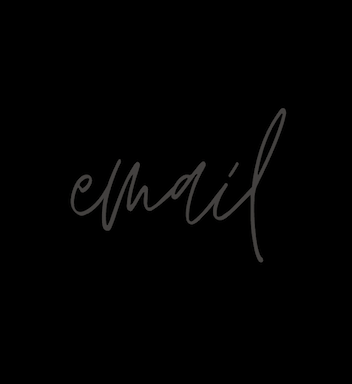
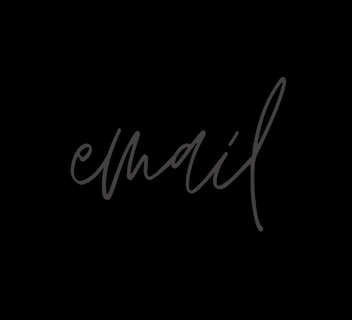
complete contacts

diff --git a/src/components/Contact.jsx b/src/components/Contact.jsx
@@ -18,6 +18,8 @@ const Contact = () => {
                 <p className="font-text text-sm md:text-base px-[8%] py-8 md:py-10">
                     Feel free to contact me anytime.
                     The easiest way to reach me is to just send me an email.
+                    You can also call/text me, or connect with me on social media. 
+                    I am always open to chat about projects, commissions, work opportunities, music, gaming and anything fun. 
                 </p>
             </motion.div>
 
@@ -26,31 +28,31 @@ const Contact = () => {
                 variants={fadeIn('up', 'spring', 0.6, 2.5)}
             >
 
-                <div className="flex flex-col justify-between w-full xl:w-[22rem] h-[24rem] rounded-3xl bg-[url('../src/assets/mobile.png')]">
-                    <p className="text-[40px] text-primary-100 mx-8 mt-4 border-b-[1px]">MO-</p>
-                    <p className="flex font-text text-primary-100 mx-auto text-sm md:text-base">1-647-639-7928 <br /> 1-647-367-5000</p>
-                    <p className="text-[40px] flex justify-end text-primary-100 mx-8 mb-4 border-t-[1px]">-BILE</p>
+                <div className="flex flex-col justify-between w-full xl:w-[22rem] h-[14rem] md:h-[20rem] rounded-xl bg-[url('../src/assets/mobile.png')] bg-contain">
+                    <p className="text-md md:text-[35px] text-primary-100 mx-8 mt-4 border-b-[1px]">MO-</p>
+                    <p className="flex font-text text-primary-100 mx-auto text-xs md:text-base">1-647-639-7928 <br /> 1-647-367-5000</p>
+                    <p className="text-md md:text-[35px] flex justify-end text-primary-100 mx-8 mb-4 border-t-[1px]">-BILE</p>
                 </div>
 
-                <div className="flex flex-col justify-between w-full xl:w-[22rem] h-[24rem] rounded-3xl bg-[url('../src/assets/email.png')]">
-                    <p className="text-[40px] text-primary-100 mx-8 mt-4 border-b-[1px]">E-</p>
+                <div className="flex flex-col justify-between w-full xl:w-[22rem] h-[14rem] md:h-[20rem] rounded-xl bg-[url('../src/assets/email.png')] bg-contain">
+                    <p className="text-md md:text-[35px] text-primary-100 mx-8 mt-4 border-b-[1px]">E-</p>
                     <a href="mailto:yolandahuang2004@gmail.com" target="_blank" rel="noreferrer" className="mx-auto">
-                        <p className="flex font-text text-primary-100 text-sm md:text-base hover:underline hover:text-primary-300">yolandahuang2004@gmail.com</p>
+                        <p className="flex font-text text-primary-100 text-xs md:text-base hover:underline hover:text-primary-300">yolandahuang2004@gmail.com</p>
                     </a>
-                    <p className="text-[40px] flex justify-end text-primary-100 mx-8 mb-4 border-t-[1px]">-MAIL</p>
+                    <p className="text-md md:text-[35px] flex justify-end text-primary-100 mx-8 mb-4 border-t-[1px]">-MAIL</p>
                 </div>
 
-                <div className="flex flex-col justify-between w-full xl:w-[22rem] h-[24rem] rounded-3xl bg-[url('../src/assets/social.png')]">
-                    <p className="text-[40px] text-primary-100 mx-8 mt-4 border-b-[1px]">SO-</p>
+                <div className="flex flex-col justify-between w-full xl:w-[22rem] h-[14rem] md:h-[20rem] rounded-xl bg-[url('../src/assets/social.png')] bg-contain">
+                    <p className="text-md md:text-[35px] text-primary-100 mx-8 mt-4 border-b-[1px]">SO-</p>
                     <div className="flex flex-col">
                         <a href="https://www.linkedin.com/in/yolandahuangg/" target="_blank" rel="noreferrer" className="mx-auto">
-                            <p className="flex font-text text-primary-100 text-sm md:text-base hover:underline hover:text-primary-300">linkedin</p>
+                            <p className="flex font-text text-primary-100 text-xs md:text-base hover:underline hover:text-primary-300">linkedin</p>
                         </a>
                         <a href="https://www.instagram.com/yolandahuangg/" target="_blank" rel="noreferrer" className="mx-auto">
-                            <p className="flex font-text text-primary-100 text-sm md:text-base hover:underline hover:text-primary-300">instagram</p>
+                            <p className="flex font-text text-primary-100 text-xs md:text-base hover:underline hover:text-primary-300">instagram</p>
                         </a>
                     </div>
-                    <p className="text-[40px] flex justify-end text-primary-100 mx-8 mb-4 border-t-[1px]">-CIAL</p>
+                    <p className="text-md md:text-[35px] flex justify-end text-primary-100 mx-8 mb-4 border-t-[1px]">-CIAL</p>
                 </div>
 
             </motion.div>

diff --git a/src/components/About.jsx b/src/components/About.jsx
@@ -39,10 +39,10 @@ const About = () => {
                     <li key={site.id}>
                         <motion.span 
                             variants={zoomIn(0.5*site.num, 1)}
-                            className="relative flex justify-center items-center h-8 w-8 md:h-16 md:w-16"
+                            className="relative flex justify-center items-center h-10 w-10 md:h-16 md:w-16"
                         >
-                            <span className="animate-ping absolute inline-flex h-5 w-5 md:h-10 md:w-10 rounded-full bg-primary-500 opacity-75"></span>
-                            <span className="relative inline-flex rounded-full h-8 w-8 md:h-16 md:w-16 bg-primary-100">
+                            <span className="animate-ping absolute inline-flex h-[1.6rem] w-[1.6rem] md:h-10 md:w-10 rounded-full bg-primary-500 opacity-75"></span>
+                            <span className="relative inline-flex rounded-full h-10 w-10 md:h-16 md:w-16 bg-primary-100">
                                 <a href={site.link} target="_blank" rel="noreferrer">
                                     <img 
                                         src={site.icon2} alt={site.id}
@@ -82,7 +82,7 @@ const About = () => {
                         2500,
                     ]}
                     speed={20}
-                    className="flex font-text font-thin text-lg md:text-xl text-light text-primary-400 break-all"
+                    className="flex font-text font-extralight text-lg md:text-xl text-light text-primary-400 break-all"
                     repeat={Infinity}
                 />
             </motion.div>

diff --git a/src/components/Projects.jsx b/src/components/Projects.jsx
@@ -25,12 +25,12 @@ const Projects = () => {
 
                 <motion.div className="flex flex-col xl:flex-row justify-end space-y-6 xl:space-y-0" variants={fadeIn('', 'spring', 0.8, 1.5)}>
                     <button
-                        className="font-text font-thin text-lg md:text-[45px] border-[1px] md:border-2 border-primary-400 rounded-full w-full xl:w-80 hover:bg-primary-400 opacity-60 transition ease-in-out delay-100 hover:text-primary-100"
+                        className="font-text font-extralight text-lg md:text-[45px] border-[1px] md:border-2 border-primary-400 rounded-full w-full xl:w-80 hover:bg-primary-400 opacity-60 transition ease-in-out delay-100 hover:text-primary-100"
                         onClick={() => window.open(resume, "_blank")}
                     >RESUME</button>
 
                     <button
-                        className="font-text font-thin text-lg md:text-[45px] border-[1px] md:border-2 border-primary-400 rounded-full w-full xl:w-[40rem] hover:bg-primary-400 opacity-60 transition ease-in-out delay-100 hover:text-primary-100"
+                        className="font-text font-extralight text-lg md:text-[45px] border-[1px] md:border-2 border-primary-400 rounded-full w-full xl:w-[40rem] hover:bg-primary-400 opacity-60 transition ease-in-out delay-100 hover:text-primary-100"
                         onClick={() => window.open("https://drive.google.com/file/d/1yL7f4t5I0tIHK_8zrqnmolO7PGooX_TH/view?usp=drive_link", "_blank")}
                     >DESIGN PORTFOLIO</button>
                 </motion.div>
